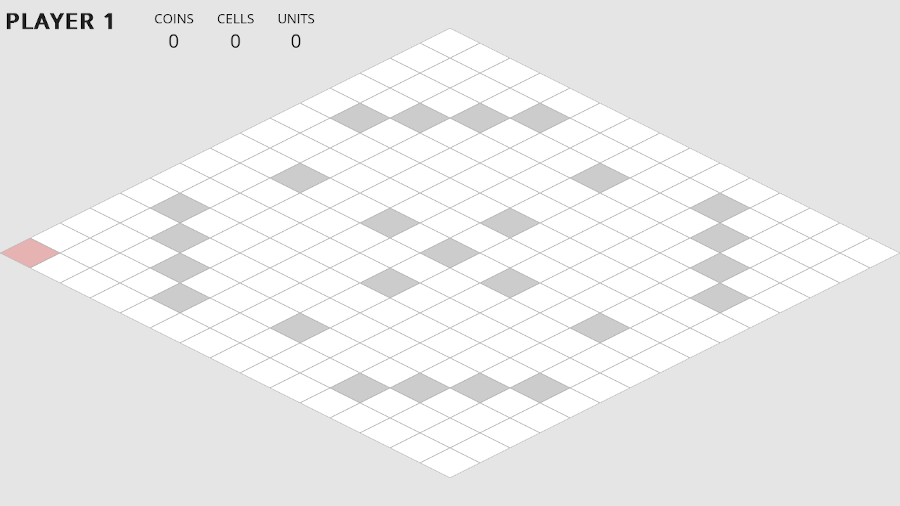
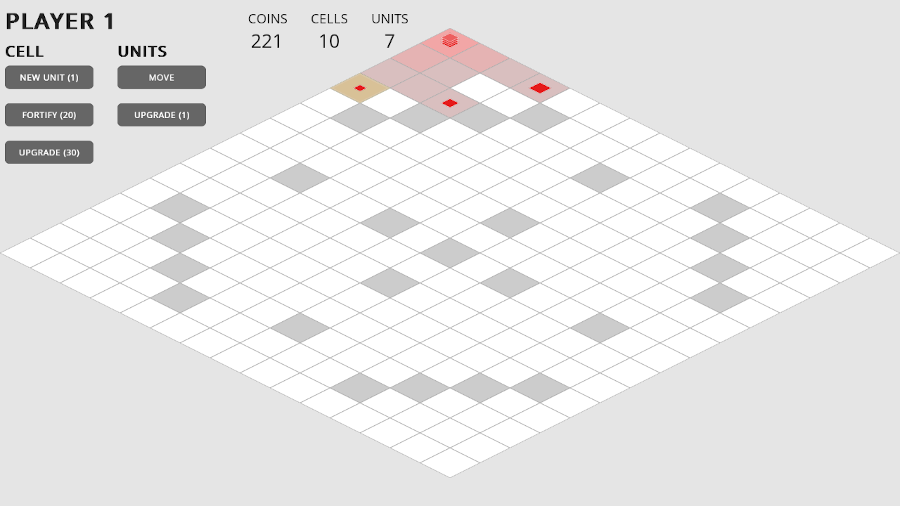
Update game screenshot and current status in README

diff --git a/README.md b/README.md
@@ -6,5 +6,5 @@ Currently in early stage. Current name is temporary.
 You can follow the development on [my blog](http://blog.davidecoppola.com/) or on [Linkedin](https://www.linkedin.com/in/davidecoppola/), [Twitter](https://twitter.com/vivaladav) and [Youtube](https://www.youtube.com/channel/UCUYD1ElkmiIklQRemVGxarw).
 
 ## Current status
-Early development, game not playable yet.
+Early development, core gameplay implemented, but game not playable yet.
 ![iso RTS current state screenshot](https://github.com/vivaladav/iso-rts/blob/master/data/help/screenshots/game_01-900.png?raw=true)
